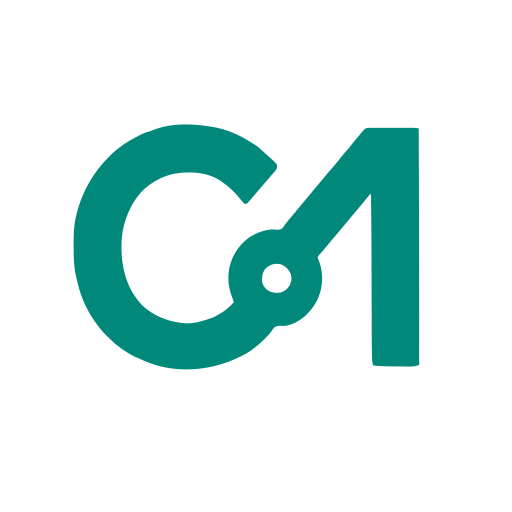
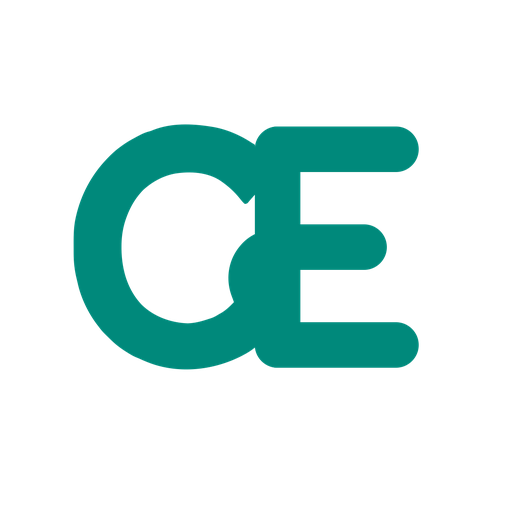
feat: update Callumployed branding to CE

Changed region(s): [[0.4688, 0.2188, 0.8438, 0.7188], [0.7812, 0.25, 0.8438, 0.2812]]

diff --git a/src/callumployed/web/static/index.html b/src/callumployed/web/static/index.html
@@ -7,8 +7,8 @@
     <meta name="apple-mobile-web-app-capable" content="yes" />
     <meta name="apple-mobile-web-app-title" content="callumployed" />
     <title>callumployed</title>
-    <link rel="icon" href="/assets/camackenzie-logo.svg?v=20260827-2" type="image/svg+xml" />
-    <link rel="apple-touch-icon" sizes="180x180" href="/assets/apple-touch-icon.png?v=20260827-2" />
+    <link rel="icon" href="/assets/camackenzie-logo.svg?v=20260910-1" type="image/svg+xml" />
+    <link rel="apple-touch-icon" sizes="180x180" href="/assets/apple-touch-icon.png?v=20260910-1" />
     <link rel="manifest" href="/assets/manifest.webmanifest" />
     <link rel="stylesheet" href="/assets/app.css?v=vanilla-20260904-24" />
   </head>
@@ -17,7 +17,7 @@
     <main class="shell">
       <header class="topbar">
         <div class="brand-lockup">
-          <img class="brand-logo" src="/assets/camackenzie-logo.svg" alt="callum mackenzie" />
+          <img class="brand-logo" src="/assets/camackenzie-logo.svg?v=20260910-1" alt="callumployed CE monogram" />
           <div>
             <p class="eyebrow">callumployed</p>
             <h1>job tracker</h1>

diff --git a/tests/test_web_server.py b/tests/test_web_server.py
@@ -581,7 +581,8 @@ def test_static_svg_assets_are_served_with_svg_content_type() -> None:
             assert response.headers["Content-Type"] == "image/svg+xml; charset=utf-8"
             body = response.read()
             assert body.startswith(b'<?xml version="1.0" encoding="UTF-8"?>')
-            assert b"path { fill: #00897b; }" in body
+            assert b"Callumployed CE monogram" in body
+            assert b"stroke: #00897b" in body
     finally:
         server.shutdown()
         thread.join(timeout=5)
@@ -644,12 +645,13 @@ def test_index_serves_single_state_aware_status_toggle() -> None:
 
         assert 'id="toggle-all"' in markup
         assert (
-            '<link rel="icon" href="/assets/camackenzie-logo.svg?v=20260827-2" '
+            '<link rel="icon" href="/assets/camackenzie-logo.svg?v=20260910-1" '
             'type="image/svg+xml" />' in index_markup
         )
         assert 'rel="apple-touch-icon"' in index_markup
         assert 'sizes="180x180"' in index_markup
-        assert 'href="/assets/apple-touch-icon.png?v=20260827-2"' in index_markup
+        assert 'href="/assets/apple-touch-icon.png?v=20260910-1"' in index_markup
+        assert 'alt="callumployed CE monogram"' in index_markup
         assert '<link rel="manifest" href="/assets/manifest.webmanifest" />' in index_markup
         assert '<meta name="apple-mobile-web-app-capable" content="yes" />' in index_markup
         assert '<meta name="apple-mobile-web-app-title" content="callumployed" />' in index_markup
